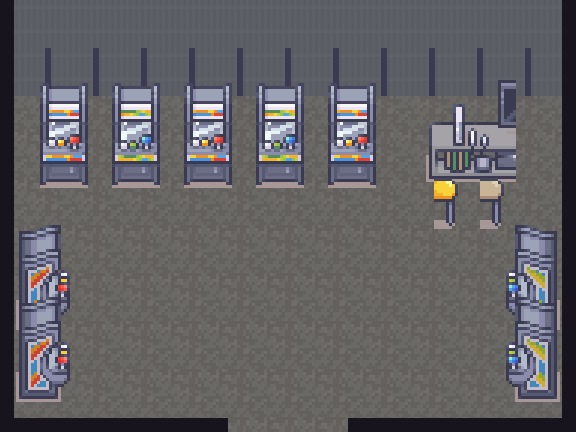
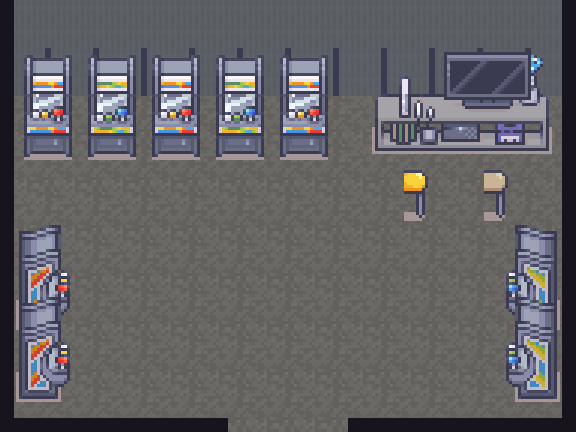
The Arcade's counter is whole and the cabinets stand into the wall
Trym: the counter looked cut in half. It was: the pack's basement counter is a
two-piece set (194 the drinks and the shelf, 195 the TV and the consoles) and
only the left half was placed. Both pieces now stand edge to edge against the
back wall with the two bar stools in front. The five cabinets moved up into the
wall band (Trym: further up, back into the wall), their colliders reaching the
wall so nobody can stand behind one. Re-walked: enter, cabinet, exit, the door
and cabinet taps.

Changed region(s): [[0.0312, 0.1204, 0.9688, 0.5417]]

diff --git a/src/scripts/town-geo.js b/src/scripts/town-geo.js
@@ -7,7 +7,7 @@ export const DOORS = { south: { x: 1100, y: 1270 } };
 export const STREETS = [[260, 560, 2020, 660], [260, 1040, 2020, 1140], [660, 660, 1540, 1040], [260, 560, 340, 1140], [1940, 560, 2020, 1140], [1040, 1140, 1160, 1300], [768, 288, 816, 576], [1392, 336, 1440, 576], [1920, 0, 1968, 576], [1536, 672, 1920, 720], [336, 672, 672, 720], [1584, 1152, 1920, 1248]];
 export const FOUNTAIN = [1100, 900, 145, 182, 6];
 export const ANIMS = [["smallfount", 1770, 1240, 72, 109, 8, 1.2], ["drink", 1330, 470, 72, 109, 4, 0.8]];
-export const ARCADE = {"img": "in-arcade.png", "box": [300, 120, 576, 432], "spawn": [588, 496], "exit": [542, 534, 634, 552], "cols": [[300, 120, 876, 220], [300, 120, 314, 552], [862, 120, 876, 552], [300, 538, 528, 552], [648, 538, 876, 552], [340, 276, 388, 320], [412, 276, 460, 320], [484, 276, 532, 320], [556, 276, 604, 320], [628, 276, 676, 320], [720, 280, 816, 320], [734, 354, 766, 364], [780, 354, 812, 364], [316, 410, 380, 450], [316, 482, 380, 522], [796, 410, 860, 450], [796, 482, 860, 522]], "spots": [["g1", 340, 192, 388, 320], ["g2", 412, 192, 460, 320], ["g3", 484, 192, 532, 320], ["g4", 556, 192, 604, 320], ["g5", 628, 192, 676, 320], ["counter", 720, 192, 816, 320], ["g6", 316, 338, 380, 450], ["g7", 316, 410, 380, 522], ["g8", 796, 338, 860, 450], ["g9", 796, 410, 860, 522]]};
+export const ARCADE = {"img": "in-arcade.png", "box": [300, 120, 576, 432], "spawn": [588, 496], "exit": [542, 534, 634, 552], "cols": [[300, 120, 876, 220], [300, 120, 314, 552], [862, 120, 876, 552], [300, 538, 528, 552], [648, 538, 876, 552], [324, 216, 372, 292], [388, 216, 436, 292], [452, 216, 500, 292], [516, 216, 564, 292], [580, 216, 628, 292], [666, 216, 762, 292], [762, 216, 858, 292], [704, 346, 736, 356], [784, 346, 816, 356], [316, 410, 380, 450], [316, 482, 380, 522], [796, 410, 860, 450], [796, 482, 860, 522]], "spots": [["g1", 324, 164, 372, 292], ["g2", 388, 164, 436, 292], ["g3", 452, 164, 500, 292], ["g4", 516, 164, 564, 292], ["g5", 580, 164, 628, 292], ["counter", 666, 164, 762, 292], ["counter", 762, 164, 858, 292], ["g6", 316, 338, 380, 450], ["g7", 316, 410, 380, 522], ["g8", 796, 338, 860, 450], ["g9", 796, 410, 860, 522]]};
 export const OVERLAYS = [["ov-0.png", 370, 194, 220, 366, 560], ["ov-1.png", 963, 30, 275, 530, 560], ["ov-2.png", 1554, 85, 293, 475, 560], ["ov-3.png", 1811, 545, 38, 47, 592], ["ov-4.png", 389, 768, 183, 272, 1040], ["ov-5.png", 589, 939, 63, 101, 1040], ["ov-6.png", 1529, 761, 183, 279, 1040], ["ov-7.png", 1751, 791, 158, 249, 1040], ["ov-8.png", 51, 176, 38, 74, 250], ["ov-9.png", 51, 396, 38, 74, 470], ["ov-10.png", 87, 176, 38, 74, 250], ["ov-11.png", 87, 396, 38, 74, 470], ["ov-12.png", 123, 176, 38, 74, 250], ["ov-13.png", 123, 396, 38, 74, 470], ["ov-14.png", 159, 176, 38, 74, 250], ["ov-15.png", 159, 396, 38, 74, 470], ["ov-16.png", 195, 176, 38, 74, 250], ["ov-17.png", 195, 396, 38, 74, 470], ["ov-18.png", 114, 285, 72, 95, 380], ["ov-19.png", 73, 355, 35, 85, 440], ["ov-20.png", 197, 397, 26, 33, 430], ["ov-21.png", 711, 633, 179, 147, 780], ["ov-22.png", 1311, 633, 179, 147, 780], ["ov-23.png", 674, 864, 132, 126, 990], ["ov-24.png", 1405, 884, 110, 126, 1010], ["ov-25.png", 905, 998, 110, 38, 1036], ["ov-26.png", 1185, 998, 110, 38, 1036], ["ov-27.png", 658, 554, 65, 136, 690], ["ov-28.png", 1478, 554, 65, 136, 690], ["ov-29.png", 658, 894, 65, 136, 1030], ["ov-30.png", 1478, 894, 65, 136, 1030], ["ov-31.png", 268, 464, 65, 136, 600], ["ov-32.png", 1948, 464, 65, 136, 600], ["ov-33.png", 268, 964, 65, 136, 1100], ["ov-34.png", 1948, 964, 65, 136, 1100], ["ov-35.png", 643, 386, 95, 174, 560], ["ov-36.png", 343, 984, 35, 60, 1044], ["ov-37.png", 643, 989, 38, 51, 1040], ["ov-38.png", 905, 559, 110, 81, 640], ["ov-39.png", 1185, 559, 110, 81, 640], ["ov-40.png", 346, 897, 69, 63, 960], ["ov-41.png", 1866, 897, 69, 63, 960], ["ov-42.png", 586, 1137, 69, 63, 1200], ["ov-43.png", 1546, 1137, 69, 63, 1200], ["ov-44.png", 932, 613, 97, 147, 760], ["ov-45.png", 1172, 613, 97, 147, 760], ["ov-46.png", 1212, 1001, 97, 147, 1148], ["ov-47.png", 167, 238, 67, 92, 330], ["ov-48.png", 2037, 1067, 67, 63, 1130], ["ov-49.png", 814, 1015, 172, 211, 1226], ["ov-50.png", 1653, 1126, 35, 110, 1236], ["ov-51.png", 1851, 1126, 38, 110, 1236], ["ov-52.png", 1591, 1119, 38, 51, 1170], ["ov-53.png", 1893, 1119, 38, 51, 1170], ["ov-54.png", 618, 213, 145, 117, 330], ["ov-55.png", 828, 213, 145, 117, 330], ["ov-56.png", 718, 98, 145, 117, 215], ["ov-57.png", 643, 337, 15, 15, 352], ["ov-58.png", 911, 322, 28, 28, 350], ["ov-59.png", 741, 212, 38, 28, 240], ["ov-60.png", 853, 357, 15, 15, 372], ["ov-61.png", 607, 307, 147, 88, 395], ["ov-62.png", 853, 348, 74, 72, 420], ["ov-63.png", 853, 444, 74, 101, 545], ["ov-64.png", 1361, 124, 110, 206, 330], ["ov-65.png", 1331, 275, 38, 65, 340], ["ov-66.png", 1463, 275, 38, 65, 340], ["ov-67.png", 1452, 419, 97, 51, 470], ["ov-68.png", 1978, 222, 165, 108, 330], ["ov-69.png", 1552, 707, 97, 51, 758], ["ov-70.png", 1812, 707, 97, 51, 758], ["ov-71.png", 1653, 689, 38, 65, 754], ["ov-72.png", 1769, 689, 38, 65, 754], ["ov-73.png", 1693, 717, 74, 35, 752], ["ov-74.png", 353, 689, 38, 65, 754], ["ov-75.png", 403, 717, 74, 35, 752], ["ov-76.png", 493, 717, 74, 35, 752], ["ov-77.png", 562, 707, 97, 51, 758], ["ov-78.png", -13, -81, 147, 120, 39], ["ov-79.png", 86, -48, 145, 117, 69], ["ov-80.png", 184, -49, 145, 117, 68], ["ov-81.png", 319, -84, 145, 117, 33], ["ov-82.png", 407, -82, 145, 117, 35], ["ov-83.png", 494, -73, 147, 120, 47], ["ov-84.png", 600, -67, 147, 120, 53], ["ov-85.png", 727, -78, 145, 117, 39], ["ov-86.png", 801, -56, 147, 120, 64], ["ov-87.png", 911, -84, 145, 117, 33], ["ov-88.png", 1042, -70, 145, 117, 47], ["ov-89.png", 1142, -63, 147, 120, 57], ["ov-90.png", 1216, -77, 145, 117, 40], ["ov-91.png", 1321, -80, 145, 117, 37], ["ov-92.png", 1452, -49, 145, 117, 68], ["ov-93.png", 1547, -90, 147, 120, 30], ["ov-94.png", 1662, -52, 145, 117, 65], ["ov-95.png", 1761, -74, 147, 120, 46], ["ov-96.png", 1960, -60, 145, 117, 57], ["ov-97.png", 2072, -73, 147, 120, 47], ["ov-98.png", -23, 434, 145, 117, 551], ["ov-99.png", -22, 541, 147, 120, 661], ["ov-100.png", -34, 666, 145, 117, 783], ["ov-101.png", -16, 751, 147, 120, 871], ["ov-102.png", -38, 859, 145, 117, 976], ["ov-103.png", -49, 983, 145, 117, 1100], ["ov-104.png", -35, 1059, 147, 120, 1179], ["ov-105.png", -43, 1186, 145, 117, 1303], ["ov-106.png", 2076, 304, 145, 117, 421], ["ov-107.png", 2081, 413, 145, 117, 530], ["ov-108.png", 2098, 528, 147, 120, 648], ["ov-109.png", 2072, 591, 147, 120, 711], ["ov-110.png", 2078, 721, 145, 117, 838], ["ov-111.png", 2102, 822, 145, 117, 939], ["ov-112.png", 2073, 943, 147, 120, 1063], ["ov-113.png", 2112, 1018, 147, 120, 1138], ["ov-114.png", 2100, 1135, 145, 117, 1252], ["ov-115.png", 222, 1173, 145, 117, 1290], ["ov-116.png", 335, 1180, 145, 117, 1297], ["ov-117.png", 445, 1172, 147, 120, 1292], ["ov-118.png", 533, 1173, 145, 117, 1290], ["ov-119.png", 652, 1175, 145, 117, 1292], ["ov-120.png", 1129, 1177, 145, 117, 1294], ["ov-121.png", 1236, 1182, 145, 117, 1299], ["ov-122.png", 1318, 1174, 145, 117, 1291], ["ov-123.png", 1937, 1177, 147, 120, 1297], ["ov-124.png", 2016, 1180, 145, 117, 1297]];
 export const SPOTS = { condo: { x: 480, y: 560 }, hall: { x: 1100, y: 560 }, post: { x: 1700, y: 560 }, store: { x: 480, y: 1040 }, bank: { x: 620, y: 1040 }, print: { x: 1620, y: 1040 }, cafe: { x: 1830, y: 1040 }, lot: { x: 160, y: 470 }, exchange: { x: 800, y: 780 }, wheel: { x: 1400, y: 780 }, board: { x: 740, y: 990 }, cart: { x: 1460, y: 1010 }, info: { x: 900, y: 1226 }, terrace: { x: 1770, y: 1240 }, orchard: { x: 792, y: 300 }, stand: { x: 890, y: 545 }, monument: { x: 1416, y: 330 }, bus: { x: 2060, y: 330 }, cut: { x: 1944, y: 90 }, garden_e: { x: 1730, y: 640 }, garden_w: { x: 500, y: 640 } };
 export const NPCS = [["nib", 1140, 586, "Nib"], ["stamp", 1750, 586, "Stamp"], ["moss", 700, 640, "Moss"], ["pip", 530, 1066, "Pip"], ["bean", 1780, 1066, "Bean"], ["figjr", 800, 800, "Fig Jr."], ["spinner", 1400, 800, "Spinner"], ["dot", 1010, 1120, "Dot"]];

diff --git a/tools/build-town-scene.py b/tools/build-town-scene.py
@@ -652,12 +652,15 @@ if os.path.isdir(RBD) and os.path.isdir(BASEMENT):
     # back wall: five cabinets face the room; side walls: cabinets seen from the side; a counter with
     # the TV and the consoles by the door, two stools at it
     FURN = [
-        # the back wall: five cabinets standing AGAINST it (their tops a hand into the wall band), then the counter
-        # with the TV and the consoles at the wall's right end, two stools in front of it
-        (218, 40, 200, (0, -44, 48, 0), 'g1'), (219, 112, 200, (0, -44, 48, 0), 'g2'), (218, 184, 200, (0, -44, 48, 0), 'g3'),
-        (219, 256, 200, (0, -44, 48, 0), 'g4'), (218, 328, 200, (0, -44, 48, 0), 'g5'),
-        (194, 420, 200, (0, -40, 96, 0), 'counter'),
-        (151, 434, 244, (0, -10, 32, 0), None), (155, 480, 244, (0, -10, 32, 0), None),
+        # the back wall: five cabinets pushed BACK INTO the wall band (Trym, 12 Sep: "further up / back into the
+        # wall") — base 172 puts their top half over the wall; the collider runs up to the wall band (y 96) so a
+        # banana can never stand between a cabinet and the wall and draw over it
+        (218, 24, 172, (0, -76, 48, 0), 'g1'), (219, 88, 172, (0, -76, 48, 0), 'g2'), (218, 152, 172, (0, -76, 48, 0), 'g3'),
+        (219, 216, 172, (0, -76, 48, 0), 'g4'), (218, 280, 172, (0, -76, 48, 0), 'g5'),
+        # the counter is a PAIR in the pack: 194 = the drinks and the shelf, 195 = the TV and the consoles; one half
+        # alone looks sawn off (Trym: "cut in half") — both, edge to edge, against the wall; two bar stools in front
+        (194, 366, 172, (0, -76, 96, 0), 'counter'), (195, 462, 172, (0, -76, 96, 0), 'counter'),
+        (151, 404, 236, (0, -10, 32, 0), None), (155, 484, 236, (0, -10, 32, 0), None),
         # the side walls: two cabinets seen from the side on each, below the back row so nothing cuts anything
         (221, 16, 330, (0, -40, 64, 0), 'g6'), (221, 16, 402, (0, -40, 64, 0), 'g7'),
         (223, 496, 330, (0, -40, 64, 0), 'g8'), (223, 496, 402, (0, -40, 64, 0), 'g9'),
